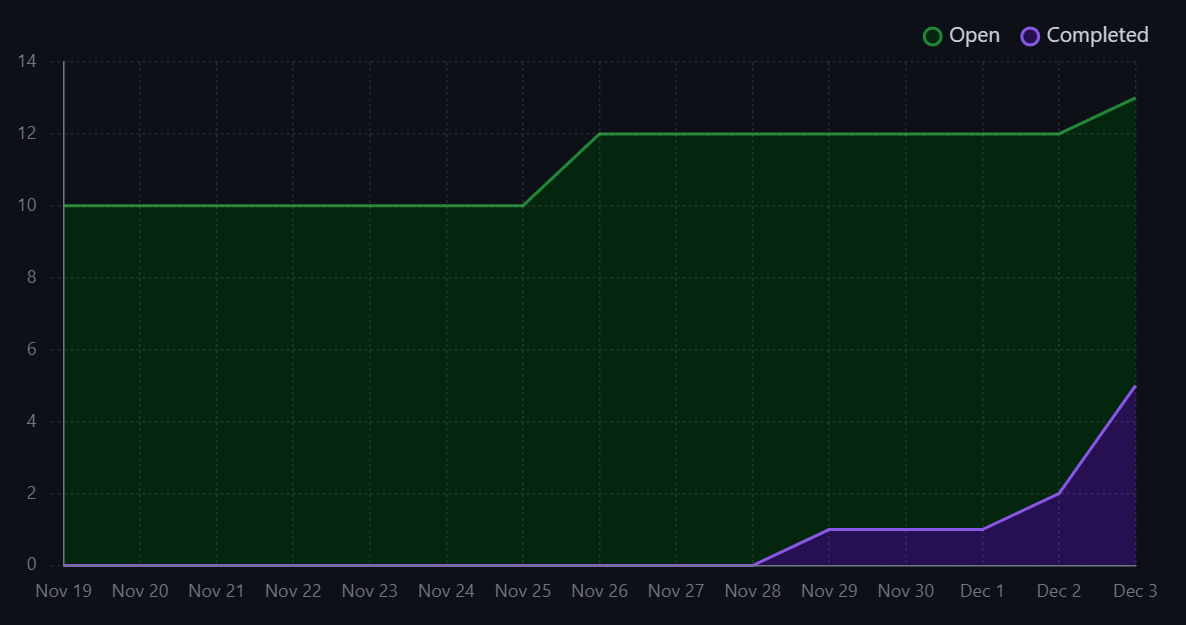
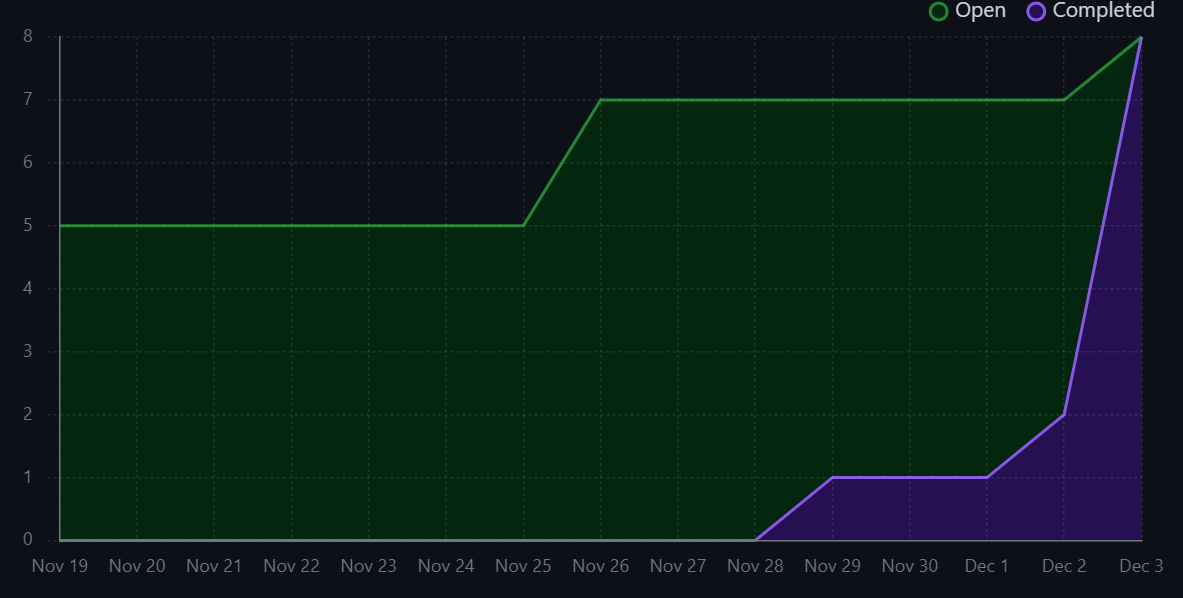
fixed mistakes in weekly log

Changed region(s): [[0.0304, 0.0, 0.9738, 0.9632], [0.0, 0.1204, 0.4869, 0.903], [0.0, 0.0903, 0.0304, 0.1204]]

diff --git a/docs/weekly logs/team9-weekly-log.md b/docs/weekly logs/team9-weekly-log.md
@@ -835,51 +835,23 @@ The tasks identified for this week were:
 * **Associated Milestone Goal:** Milestone Goal 2: Front-End Coding
 * **Description:** Complete documentation on all working components of the web
 
-### Task 7: Init api gateway
+### Task 7: Complete Submission Page
 
-* **Status:** In progress
-* **Assignee(s):** Jan-Yaeger Dhillon
-* **Associated Milestone Goal:** Milestone Goal 1: Configure enviorment for coding
-* **Description:** Initialize API gateway for use in our project
-
-### Task 8: Complete Submission Page
-
-* **Status:** In progress
+* **Status:** Completed
 * **Assignee(s):** Jan-Yaeger Dhillon
 * **Associated Milestone Goal:** Milestone Goal 2: Front-End Coding
 * **Description:** Create `Submission Page` which will allow the user to submit a video and process it in response to a request
 
-### Task 9: Make Homepage Responsive
+### Task 8: Create Sign-in Page
 
-* **Status:** In progress
-* **Assignee(s):** Jan-Yaeger Dhillon
-* **Associated Milestone Goal:** Milestone Goal 2: Front-End Coding
-* **Description:** Edit `Home Page` to be responsive to screen size and allow for good formatting across different screen sizes
-
-### Task 10: Migrate from Pages Router to App Router
-
-* **Status:** In progress
-* **Assignee(s):** Jan-Yaeger Dhillon and Baz Sivakua
-* **Associated Milestone Goal:** Milestone Goal 2: Front-End Coding
-* **Description:** Migrate from page router to app router in nextjs
-
-### Task 11: Create Registration Page
-
-* **Status:** In progress
+* **Status:** Completed
 * **Assignee(s):** Jan-Yaeger Dhillon and Soren Stenback 
 * **Associated Milestone Goal:** Milestone Goal 2: Front-End Coding
-* **Description:** Complete a working registration page where users (both professional and client) are able to sign up for an account
+* **Description:** Complete a working registration page where users (both professional and client) are able to social sign in with Google, Facebook and Microsoft
 
-### Task 12: Set up AWS Fargate
+### Task 9: Playwright Testing
 
-* **Status:** In progress
-* **Assignee(s):** Jan-Yaeger Dhillon 
-* **Associated Milestone Goal:** Milestone Goal 1: Configure enviorment for coding
-* **Description:** Set up AWS Fargate environment to run Batch jobs on
-
-### Task 13: Improve Playwright Testing
-
-* **Status:** In progress
+* **Status:** Completed
 * **Assignee(s):** Baz Sivakua
 * **Associated Milestone Goal:** Milestone Goal 3: Back-End Coding
 * **Description:** Research and implement improvements for playwright testing and create additional tests
@@ -891,8 +863,5 @@ The tasks identified for this week were:
 ![screenshot of burnupchart](img/team-weekly-log-img/week-13/burnup-week13.png)
 
 ### Table View of Completed Tasks
+All tasks for `Milestone 3 - Design Documentation` were completed
 ![screenshot of completed board tasks](img/team-weekly-log-img/week-13/completed-week13.png)
-
-### Table View of In Progress Tasks
-
-![screenshot of in progress board tasks](img/team-weekly-log-img/week-13/inprogress-week13.png)
